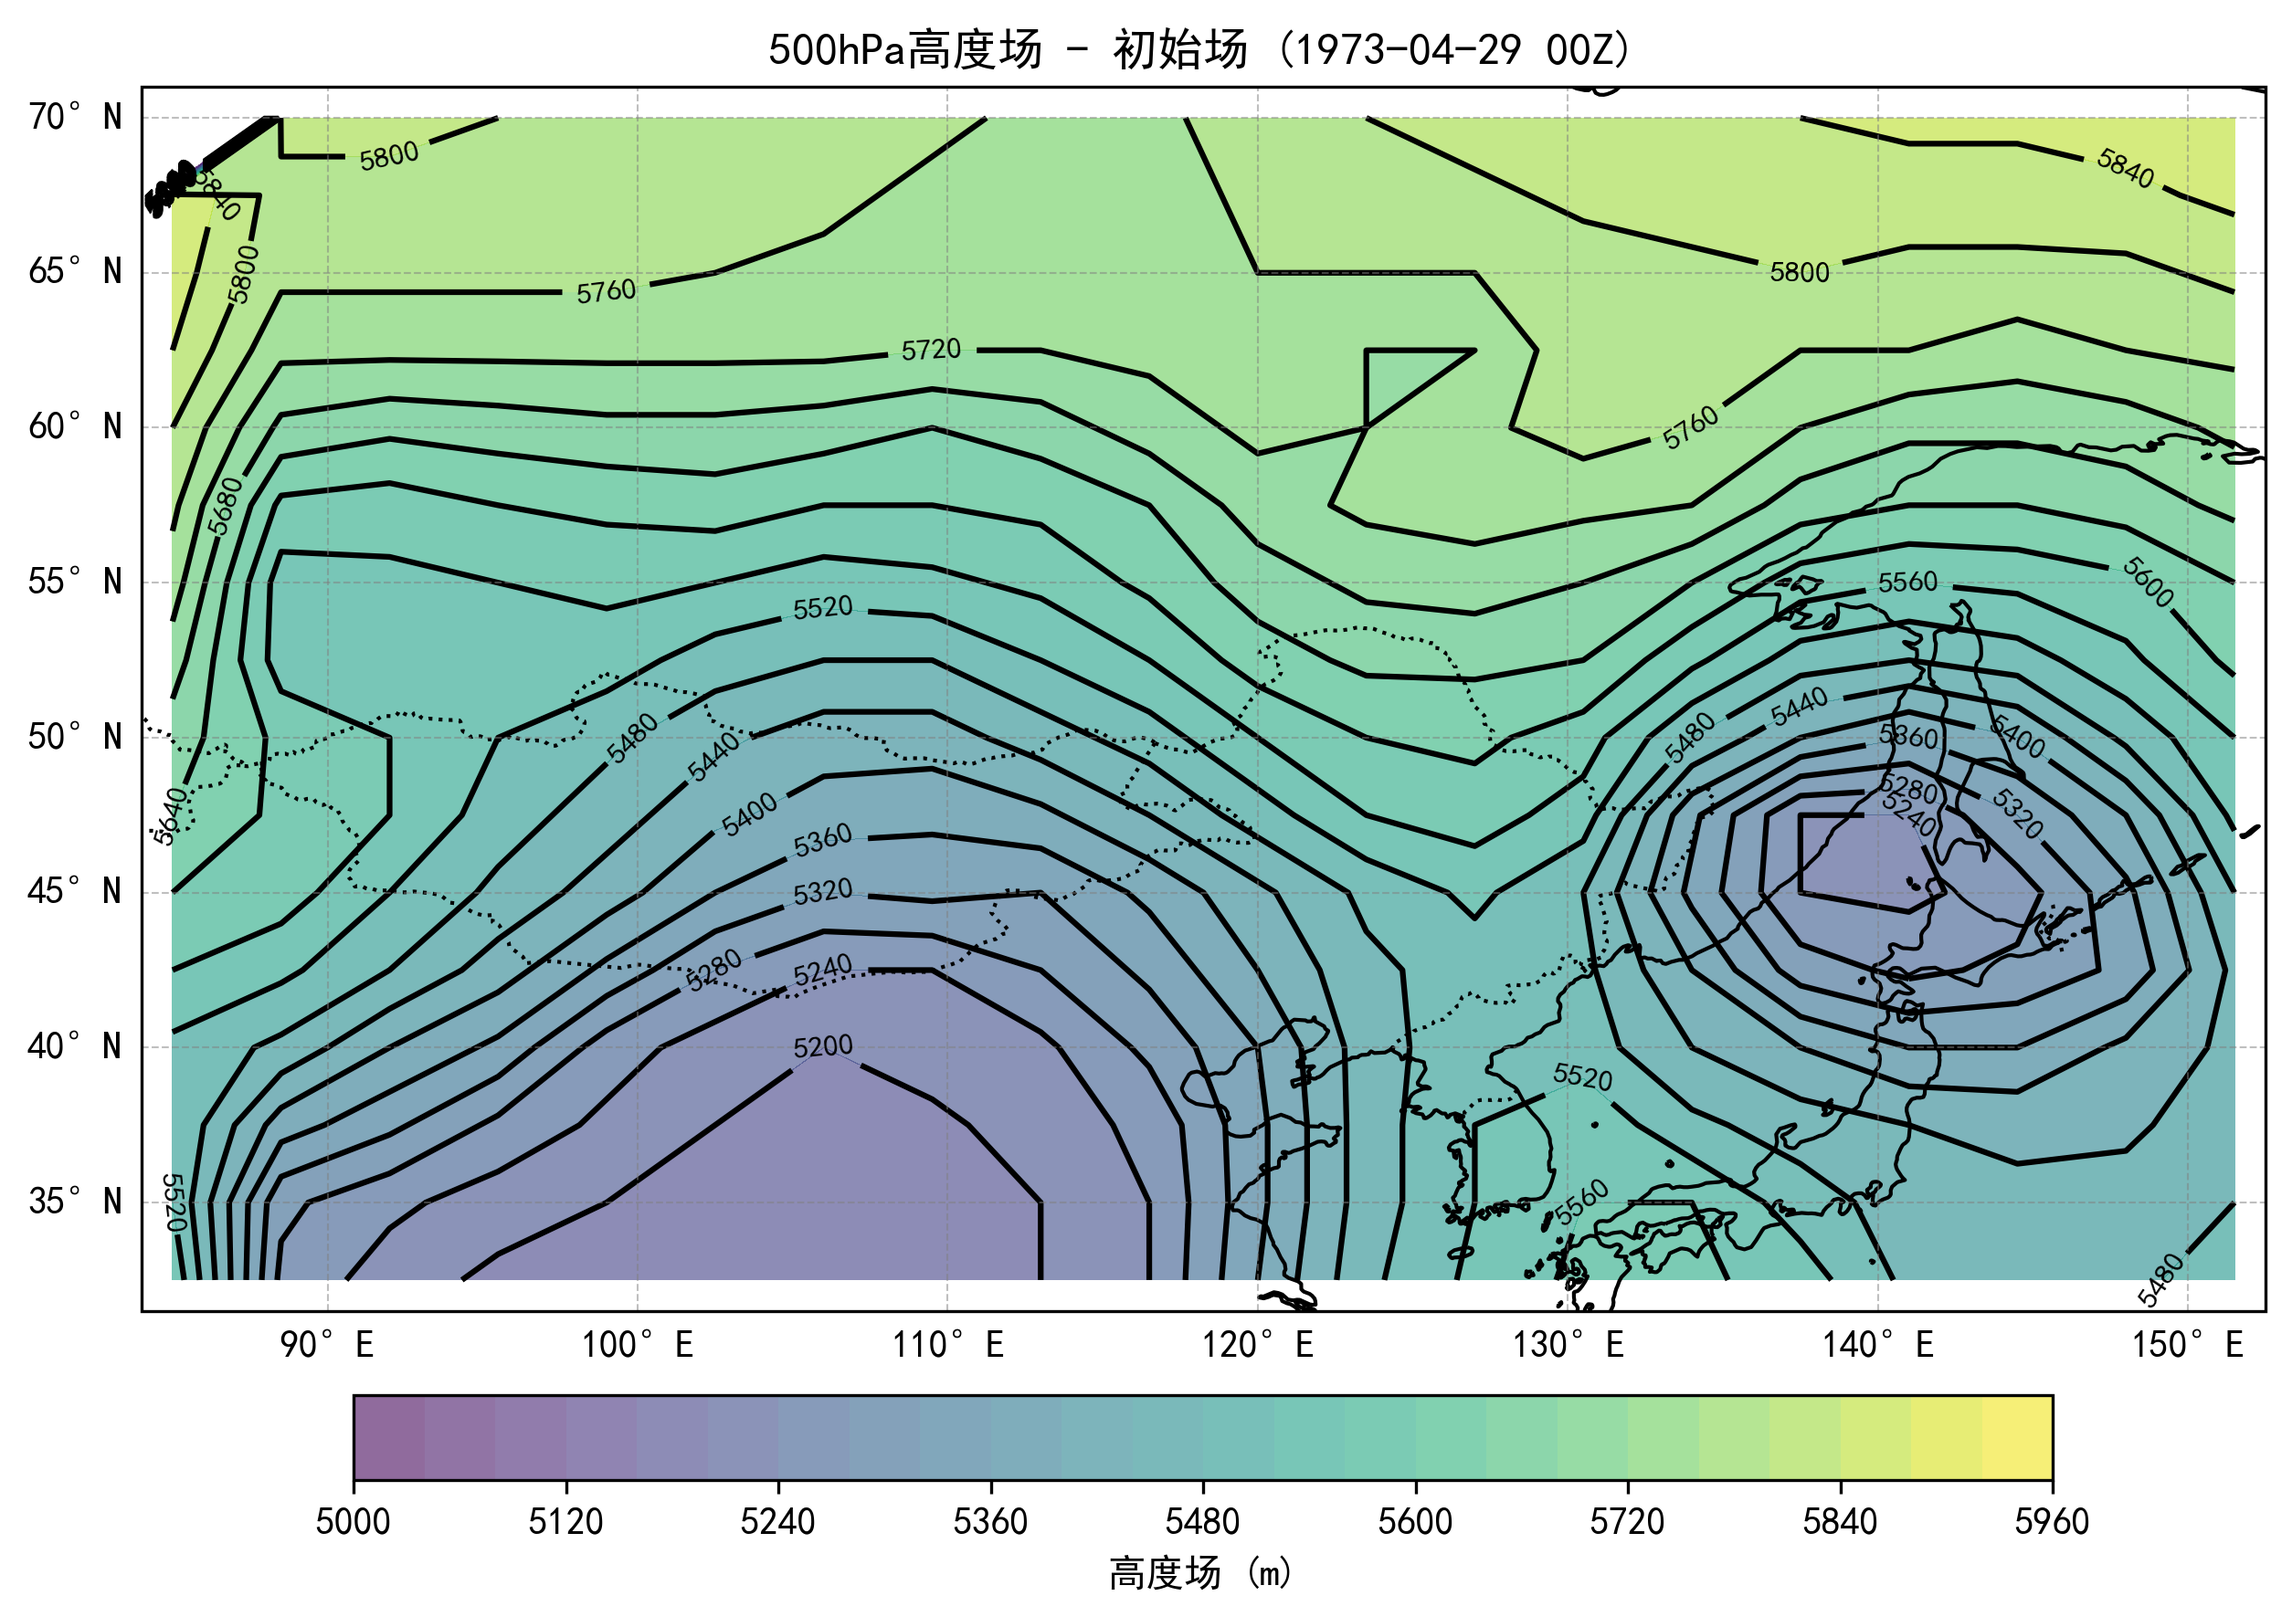
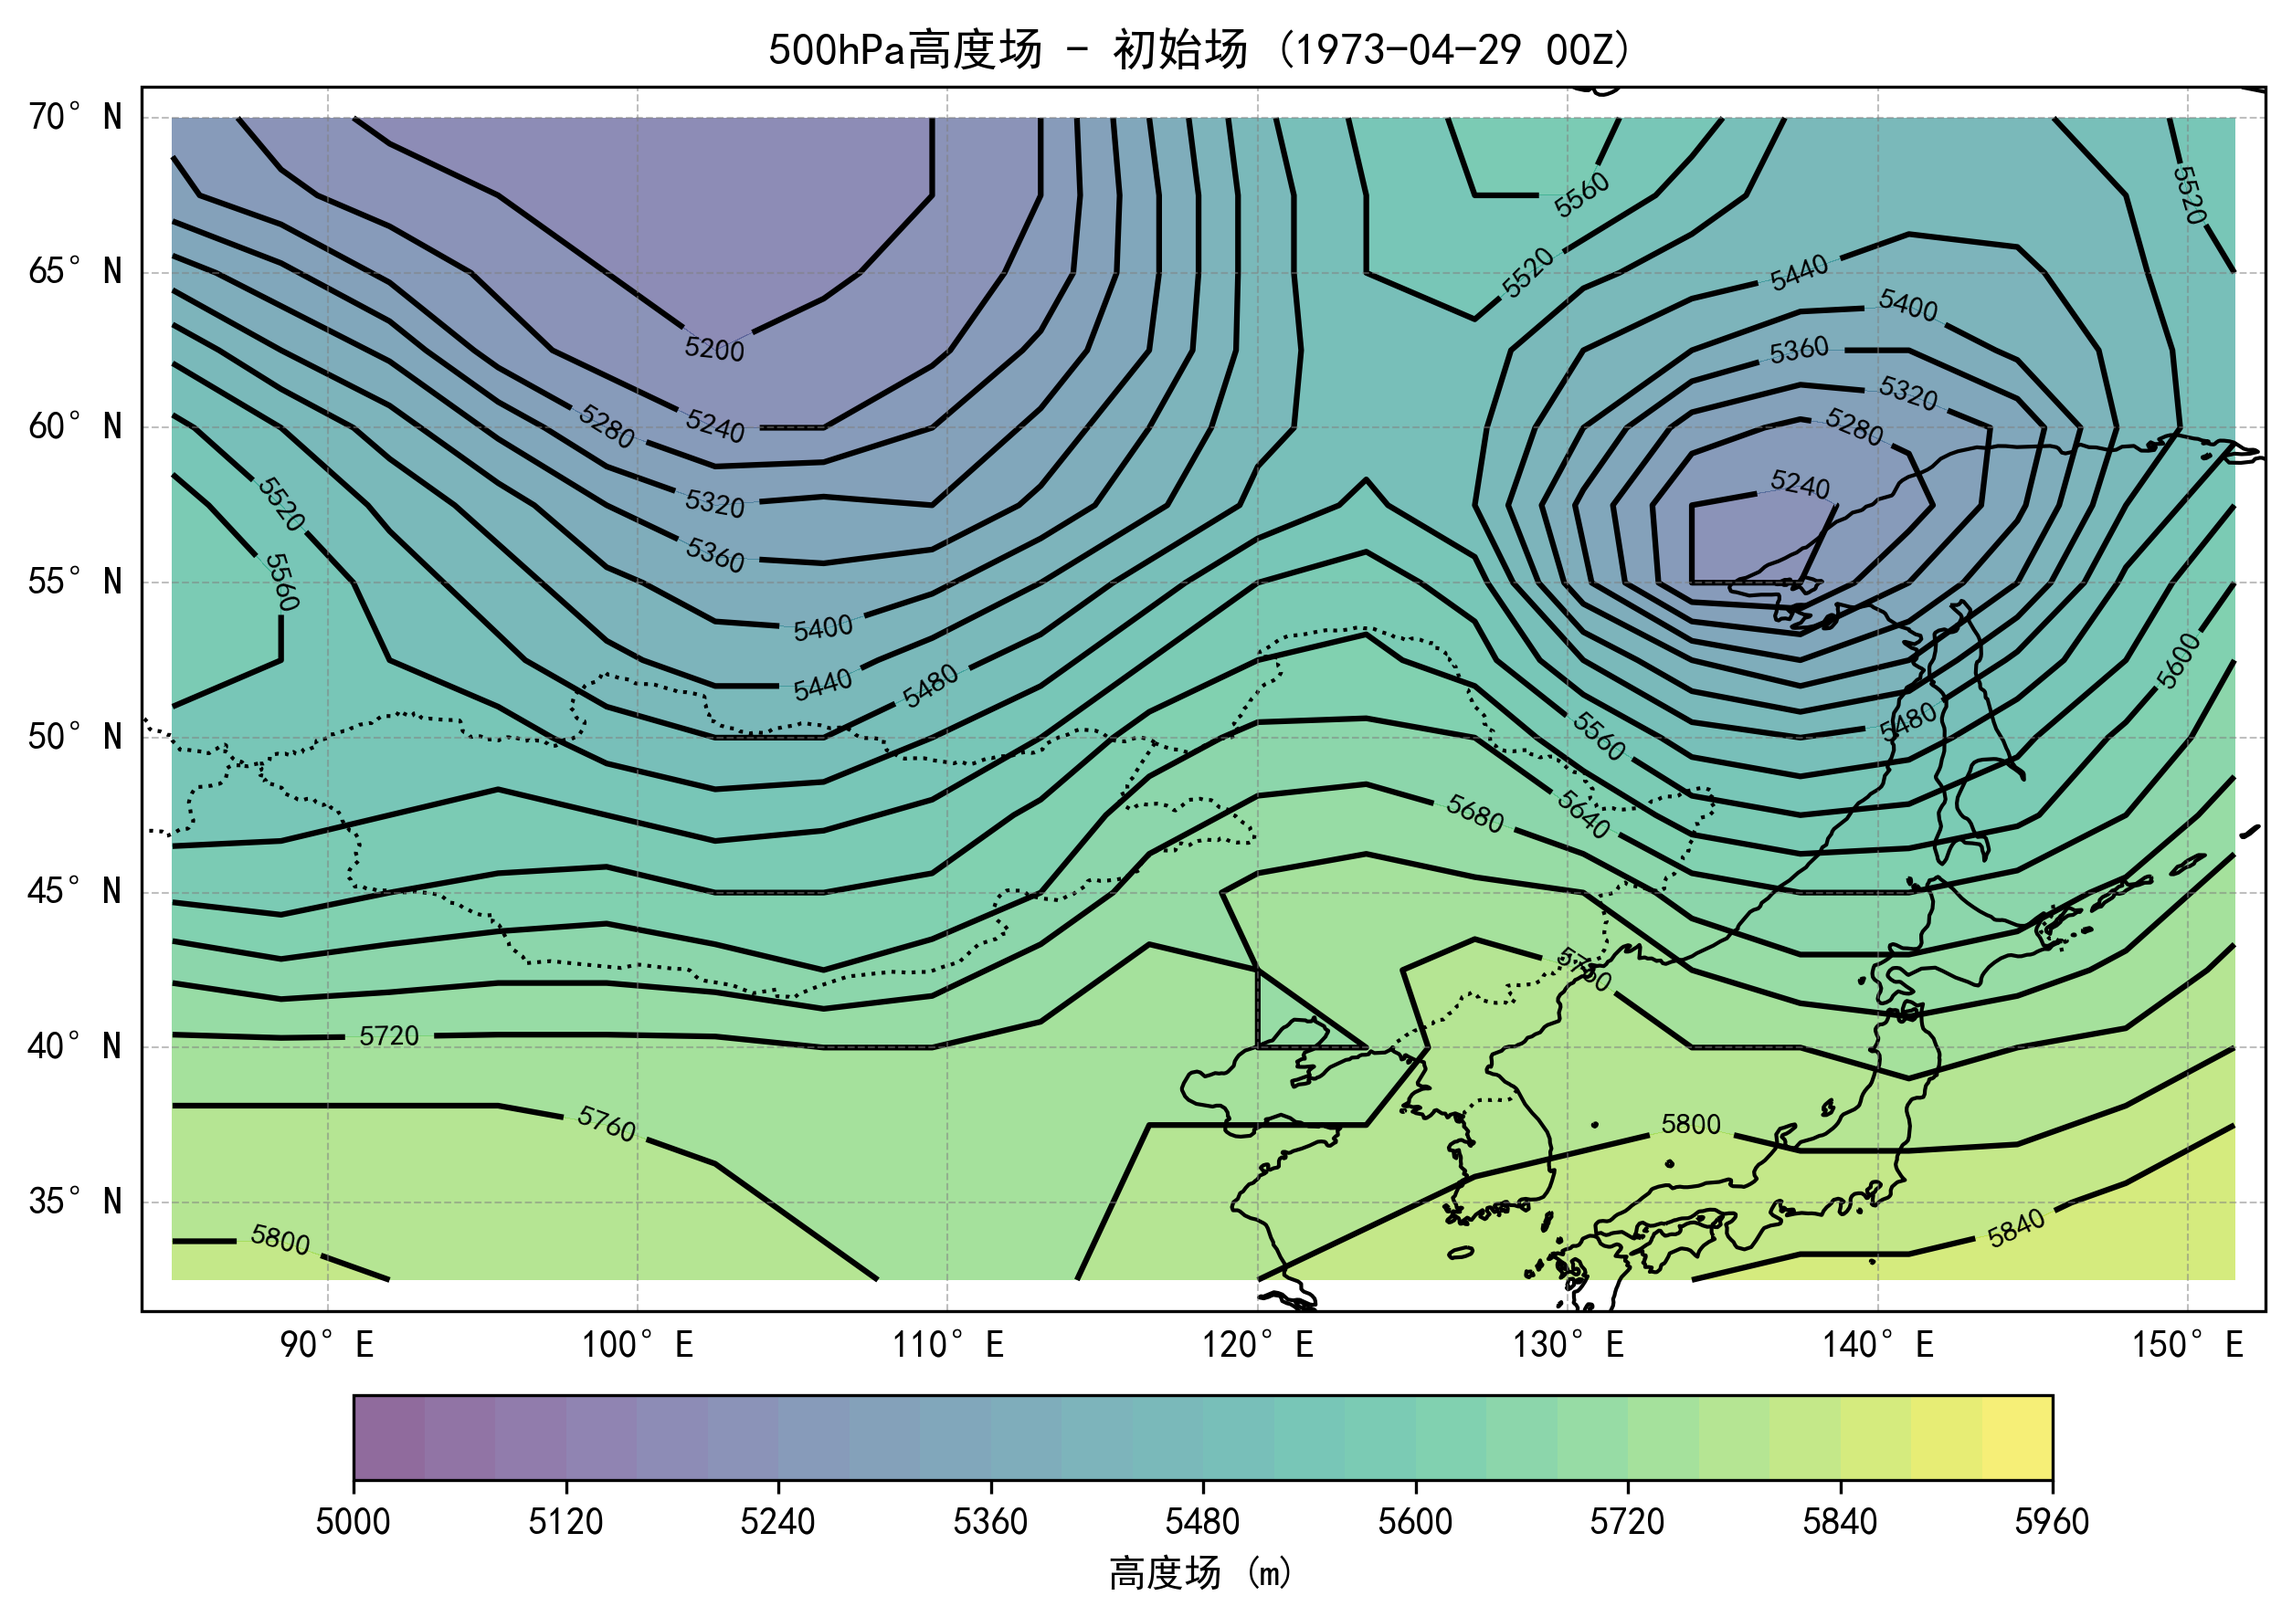
3.1.2 成功完成

diff --git a/shixi3/draw.py b/shixi3/draw.py
@@ -44,49 +44,38 @@ lons = np.array([x_start + i * x_step for i in range(nx)])
 lats = np.array([y_start + j * y_step for j in range(ny)])
 lon_grid, lat_grid = np.meshgrid(lons, lats)
 
+#下面的函数设置需要重点考虑“Fortran使用form='unformatted'写入二进制文件时会在每个记录前后添加记录标记(record markers)，这些标记通常是4字节整数，保存记录长度信息。
+#1. ”先读取4字节记录标记（不使用它，但必须读取以跳过）
+#2.读取初始场数据并正确重塑为(ny,nx)格式
+#3.跳过8字节（尾部记录标记4字节+第二条记录的头部标记4字节）
+#4.读取预报场数据并重塑
+#5.将两个场组合成所需的数组格式
+#这种方法能够正确处理Fortran的二进制记录格式，避免数据错位问题。这也与CTL文件中的XDEF和YDEF定义保持一致，确保地图绘制正确。
+
 def read_binary_data(filepath):
     try:
-        # 打印文件大小以便调试
-        file_size = os.path.getsize(filepath)
-        print(f"文件大小: {file_size} 字节")
-        print(f"预期数据大小: {2 * ny * nx * 4} 字节 (2个时间点, {ny}×{nx}网格, 4字节/float32)")
-        
-        # 读取整个文件
         with open(filepath, 'rb') as f:
-            # 方案1: 假设前4个字节是头信息
-            data_with_header = np.fromfile(f, dtype=np.float32)
-            if len(data_with_header) == 2 * ny * nx + 1:  # 多1个float32值(4字节)
-                print("检测到头信息或额外数据，跳过第一个值")
-                data = data_with_header[1:]  # 跳过第一个值
-            else:
-                # 方案2: 尝试直接读取精确字节数
-                f.seek(0)  # 回到文件开头
-                data = np.fromfile(f, dtype=np.float32, count=2*ny*nx)
-        
-        print(f"读取数据形状: {data.shape}")
-        
-        # 重塑为二维数组，2表示有两个时间点
-        data = data.reshape(2, ny, nx)
-        data = data[:, ::-1, :]  # 沿纬度方向翻转数据
-        
-        return data
+            # 读取记录标记以确定数据大小
+            header = np.fromfile(f, dtype=np.int32, count=1)[0]
+            # 读取初始场数据
+            initial_data = np.fromfile(f, dtype=np.float32, count=nx*ny)
+            initial_data = initial_data.reshape(ny, nx)
+            
+            # 跳过尾部记录标记和第二条记录的头部记录标记
+            f.seek(8, 1)
+            # 读取预报场数据
+            forecast_data = np.fromfile(f, dtype=np.float32, count=nx*ny)
+            forecast_data = forecast_data.reshape(ny, nx)
+            # 构建最终数据数组
+            data = np.zeros((2, ny, nx), dtype=np.float32)
+            data[0] = initial_data
+            data[1] = forecast_data
+            
+            return data
+            
     except Exception as e:
-        print(f"读取数据错误: {e}")
-        print("尝试进行替代解析...")
-        
-        try:
-            # 尝试另一种读取方式：精确读取所需字节数
-            with open(filepath, 'rb') as f:
-                # 跳过前4个字节
-                f.seek(4)
-                data = np.fromfile(f, dtype=np.float32, count=2*ny*nx)
-                data = data.reshape(2, ny, nx)
-                print("使用替代方法成功读取数据")
-                return data
-        except Exception as e2:
-            print(f"替代解析也失败: {e2}")
-            return None
-
+        print(f"读取错误: {e}")
+        return None
 def plot_height_field(data, time_idx, title, output_file):
 
     # 创建图形和坐标系
